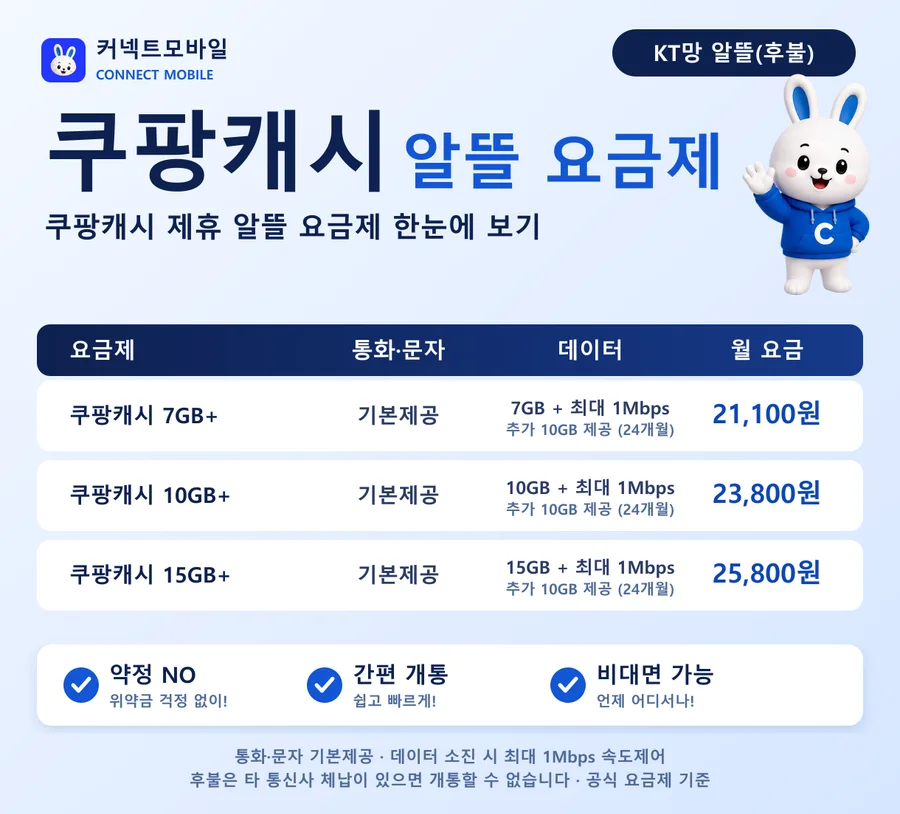
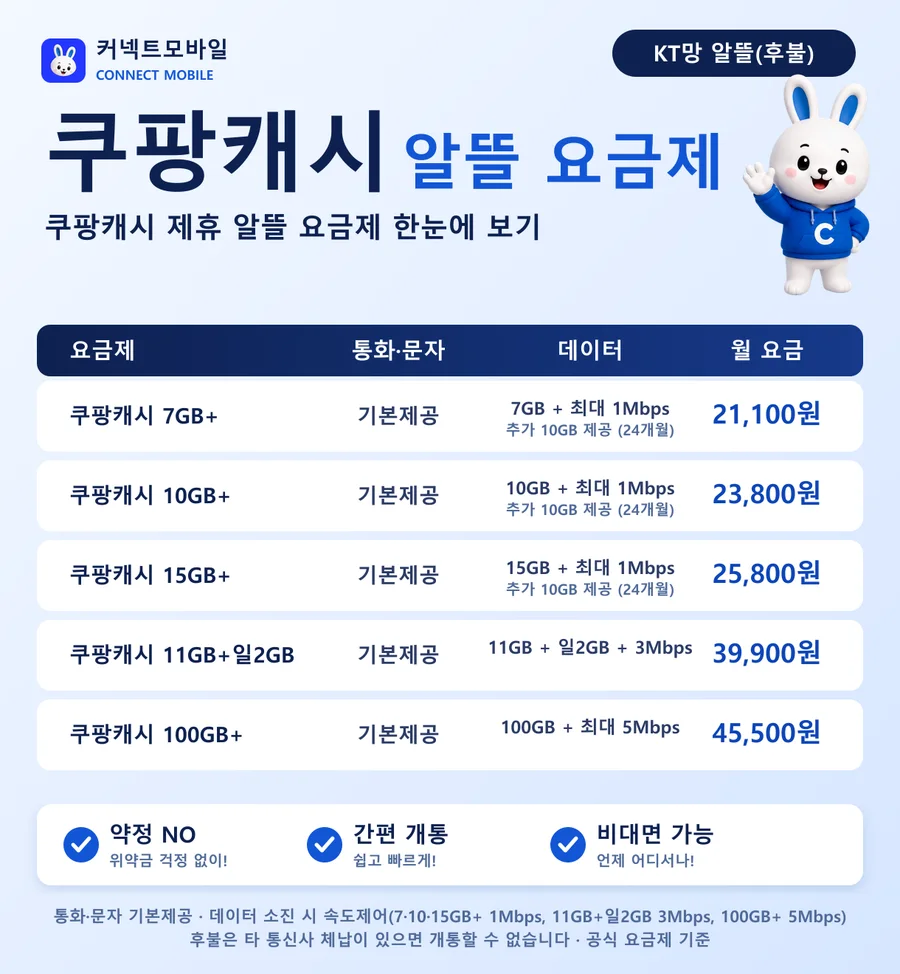
Add price check script; restore official 11GB+일2GB and 100GB+ partner plans; update posts and cards

diff --git a/src/data/postpaidPlans.ts b/src/data/postpaidPlans.ts
@@ -1,5 +1,5 @@
 // 알뜰(후불) 요금제 정보입니다. 요금이 바뀌면 여기만 고치면 요금제 페이지에 반영됩니다.
-// 통화·문자는 모두 기본제공 상품만 싣습니다. 기준: 앤텔레콤 공식 요금제 페이지 (2026-10-01 확인). 공식 페이지에 없는 100GB, 제휴처별 11GB+일2GB는 싣지 않습니다.
+// 통화·문자는 모두 기본제공 상품만 싣습니다. 기준: 앤텔레콤 공식 요금제 페이지(Kt_all.asp). 가격이 맞는지는 `node scripts/check-prices.mjs`로 점검합니다.
 import type { PrepaidPlan } from './prepaidPlans';
 
 export interface Partner {
@@ -28,6 +28,7 @@ const D7 = '7GB + 최대 1Mbps';
 const D10 = '10GB + 최대 1Mbps';
 const D15 = '15GB + 최대 1Mbps';
 const D11 = '11GB + 일2GB + 최대 3Mbps';
+const D100 = '100GB + 최대 5Mbps';
 const LOW = { badge: '제휴 최저' };
 
 export const postpaidPartners: Partner[] = [
@@ -39,6 +40,7 @@ export const postpaidPartners: Partner[] = [
 			plan('밀리의서재', '10GB+', '22,300', D10),
 			plan('밀리의서재', '15GB+', '23,500', D15),
 			plan('밀리의서재', '11GB+일2GB', '37,500', D11),
+			plan('밀리의서재', '100GB+', '43,200', D100),
 		],
 	},
 	{
@@ -48,6 +50,8 @@ export const postpaidPartners: Partner[] = [
 			plan('CU', '7GB+', '19,500', D7, { ...LOW, extra: true }),
 			plan('CU', '10GB+', '22,300', D10),
 			plan('CU', '15GB+', '24,000', D15),
+			plan('CU', '11GB+일2GB', '37,500', D11),
+			plan('CU', '100GB+', '43,200', D100),
 		],
 	},
 	{
@@ -57,6 +61,8 @@ export const postpaidPartners: Partner[] = [
 			plan('다이소', '7GB+', '21,100', D7),
 			plan('다이소', '10GB+', '23,800', D10),
 			plan('다이소', '15GB+', '25,800', D15),
+			plan('다이소', '11GB+일2GB', '39,900', D11),
+			plan('다이소', '100GB+', '45,500', D100),
 		],
 	},
 	{
@@ -66,6 +72,8 @@ export const postpaidPartners: Partner[] = [
 			plan('올리브영', '7GB+', '21,100', D7),
 			plan('올리브영', '10GB+', '23,800', D10),
 			plan('올리브영', '15GB+', '25,800', D15),
+			plan('올리브영', '11GB+일2GB', '39,900', D11),
+			plan('올리브영', '100GB+', '45,500', D100),
 		],
 	},
 	{
@@ -75,6 +83,8 @@ export const postpaidPartners: Partner[] = [
 			plan('네이버페이', '7GB+', '21,100', D7, { extra: true }),
 			plan('네이버페이', '10GB+', '23,800', D10, { extra: true }),
 			plan('네이버페이', '15GB+', '25,800', D15, { extra: true }),
+			plan('네이버페이', '11GB+일2GB', '39,900', D11),
+			plan('네이버페이', '100GB+', '45,500', D100),
 		],
 	},
 	{
@@ -84,6 +94,8 @@ export const postpaidPartners: Partner[] = [
 			plan('쿠팡캐시', '7GB+', '21,100', D7, { extra: true }),
 			plan('쿠팡캐시', '10GB+', '23,800', D10, { extra: true }),
 			plan('쿠팡캐시', '15GB+', '25,800', D15, { extra: true }),
+			plan('쿠팡캐시', '11GB+일2GB', '39,900', D11),
+			plan('쿠팡캐시', '100GB+', '45,500', D100),
 		],
 	},
 ];

diff --git a/src/content/blog/postpaid-benefit-plans.md b/src/content/blog/postpaid-benefit-plans.md
@@ -17,12 +17,13 @@ pubDate: 'Sep 29 2026'
 | 밀리의 서재 | 구독권(월 9,900원) 매월 제공 | 전자책, 오디오북을 즐기는 분 |
 
 ## 요금제 구성 (예시)
-앤텔레콤 공식 요금제 기준으로 데이터 구간은 7GB+, 10GB+, 15GB+로 나뉘고, 제휴처에 따라 요금과 추가 데이터가 다릅니다. (밀리의서재에는 11GB+일2GB도 있습니다.)
+앤텔레콤 공식 요금제 기준으로 데이터 구간은 7GB+, 10GB+, 15GB+로 나뉘고, 제휴처에 따라 요금과 추가 데이터가 다릅니다. (제휴처마다 11GB+일2GB와 100GB+도 있습니다.)
 
 - **7GB+ (소진 후 최대 1Mbps):** 월 19,500원(밀리의서재·CU)~21,100원. CU·네이버페이·쿠팡캐시는 추가 10GB(24개월)가 붙습니다.
 - **10GB+ (소진 후 최대 1Mbps):** 월 22,300원(밀리의서재·CU)~23,800원. 네이버페이·쿠팡캐시는 추가 10GB(24개월)가 붙습니다.
 - **15GB+ (소진 후 최대 1Mbps):** 월 23,500원(밀리의서재)~25,800원. 네이버페이·쿠팡캐시는 추가 10GB(24개월)가 붙습니다.
-- **밀리의서재 11GB+일2GB (소진 후 최대 3Mbps):** 월 37,500원
+- **11GB+일2GB (소진 후 최대 3Mbps):** 월 37,500원(밀리의서재·CU), 39,900원(다이소·올리브영·네이버페이·쿠팡캐시)
+- **100GB+ (소진 후 최대 5Mbps):** 월 43,200원(밀리의서재·CU), 45,500원(다이소·올리브영·네이버페이·쿠팡캐시)
 
 정확한 요금은 혜택 종류에 따라 조금씩 달라서 [요금제 페이지](/plans)의 표를 확인해 주세요. 음성과 문자는 기본제공 요금제가 많고, 일부 요금제는 제공량이 다릅니다. 일부 제휴 요금제는 추가 데이터(10GB, 24개월)도 제공됩니다.
 

diff --git a/src/content/blog/heavy-data-plans.md b/src/content/blog/heavy-data-plans.md
@@ -12,6 +12,8 @@ updatedDate: 'Oct 02 2026'
 | 요금제 | 구분 | 월 요금 | 데이터 | 속도제어 |
 |---|---|---|---|---|
 | LTE 비디오 (KT망) | 선불 | 85,900원 | 100GB | 최대 5Mbps |
+| 밀리의서재·CU 100GB+ (KT망) | 후불 | 43,200원 | 100GB | 최대 5Mbps |
+| 다이소·올리브영·네이버페이·쿠팡캐시 100GB+ (KT망) | 후불 | 45,500원 | 100GB | 최대 5Mbps |
 | L망 후불 5G스탠다드 | 후불 | 66,000원 | 150GB | 최대 5Mbps |
 | L망 후불 5G스페셜 | 후불 | 70,000원 | 180GB | 최대 10Mbps |
 
@@ -23,7 +25,8 @@ updatedDate: 'Oct 02 2026'
 
 | 요금제 | 구분 | 월 요금 | 데이터 |
 |---|---|---|---|
-| 밀리의서재 11GB+일2GB (KT망) | 후불 | 37,500원 | 11GB + 일 2GB |
+| 밀리의서재·CU 11GB+일2GB (KT망) | 후불 | 37,500원 | 11GB + 일 2GB |
+| 다이소·올리브영·네이버페이·쿠팡캐시 11GB+일2GB (KT망) | 후불 | 39,900원 | 11GB + 일 2GB |
 | L망 플랫폼 11GB+일2GB | 후불 | 36,700원 | 11GB + 일 2GB |
 | L망 후불 494 | 후불 | 49,400원 | 11GB + 일 2GB |
 | LTE 선불선택 770 (KT망) | 선불 | 77,000원 | 11GB + 일 2GB |
